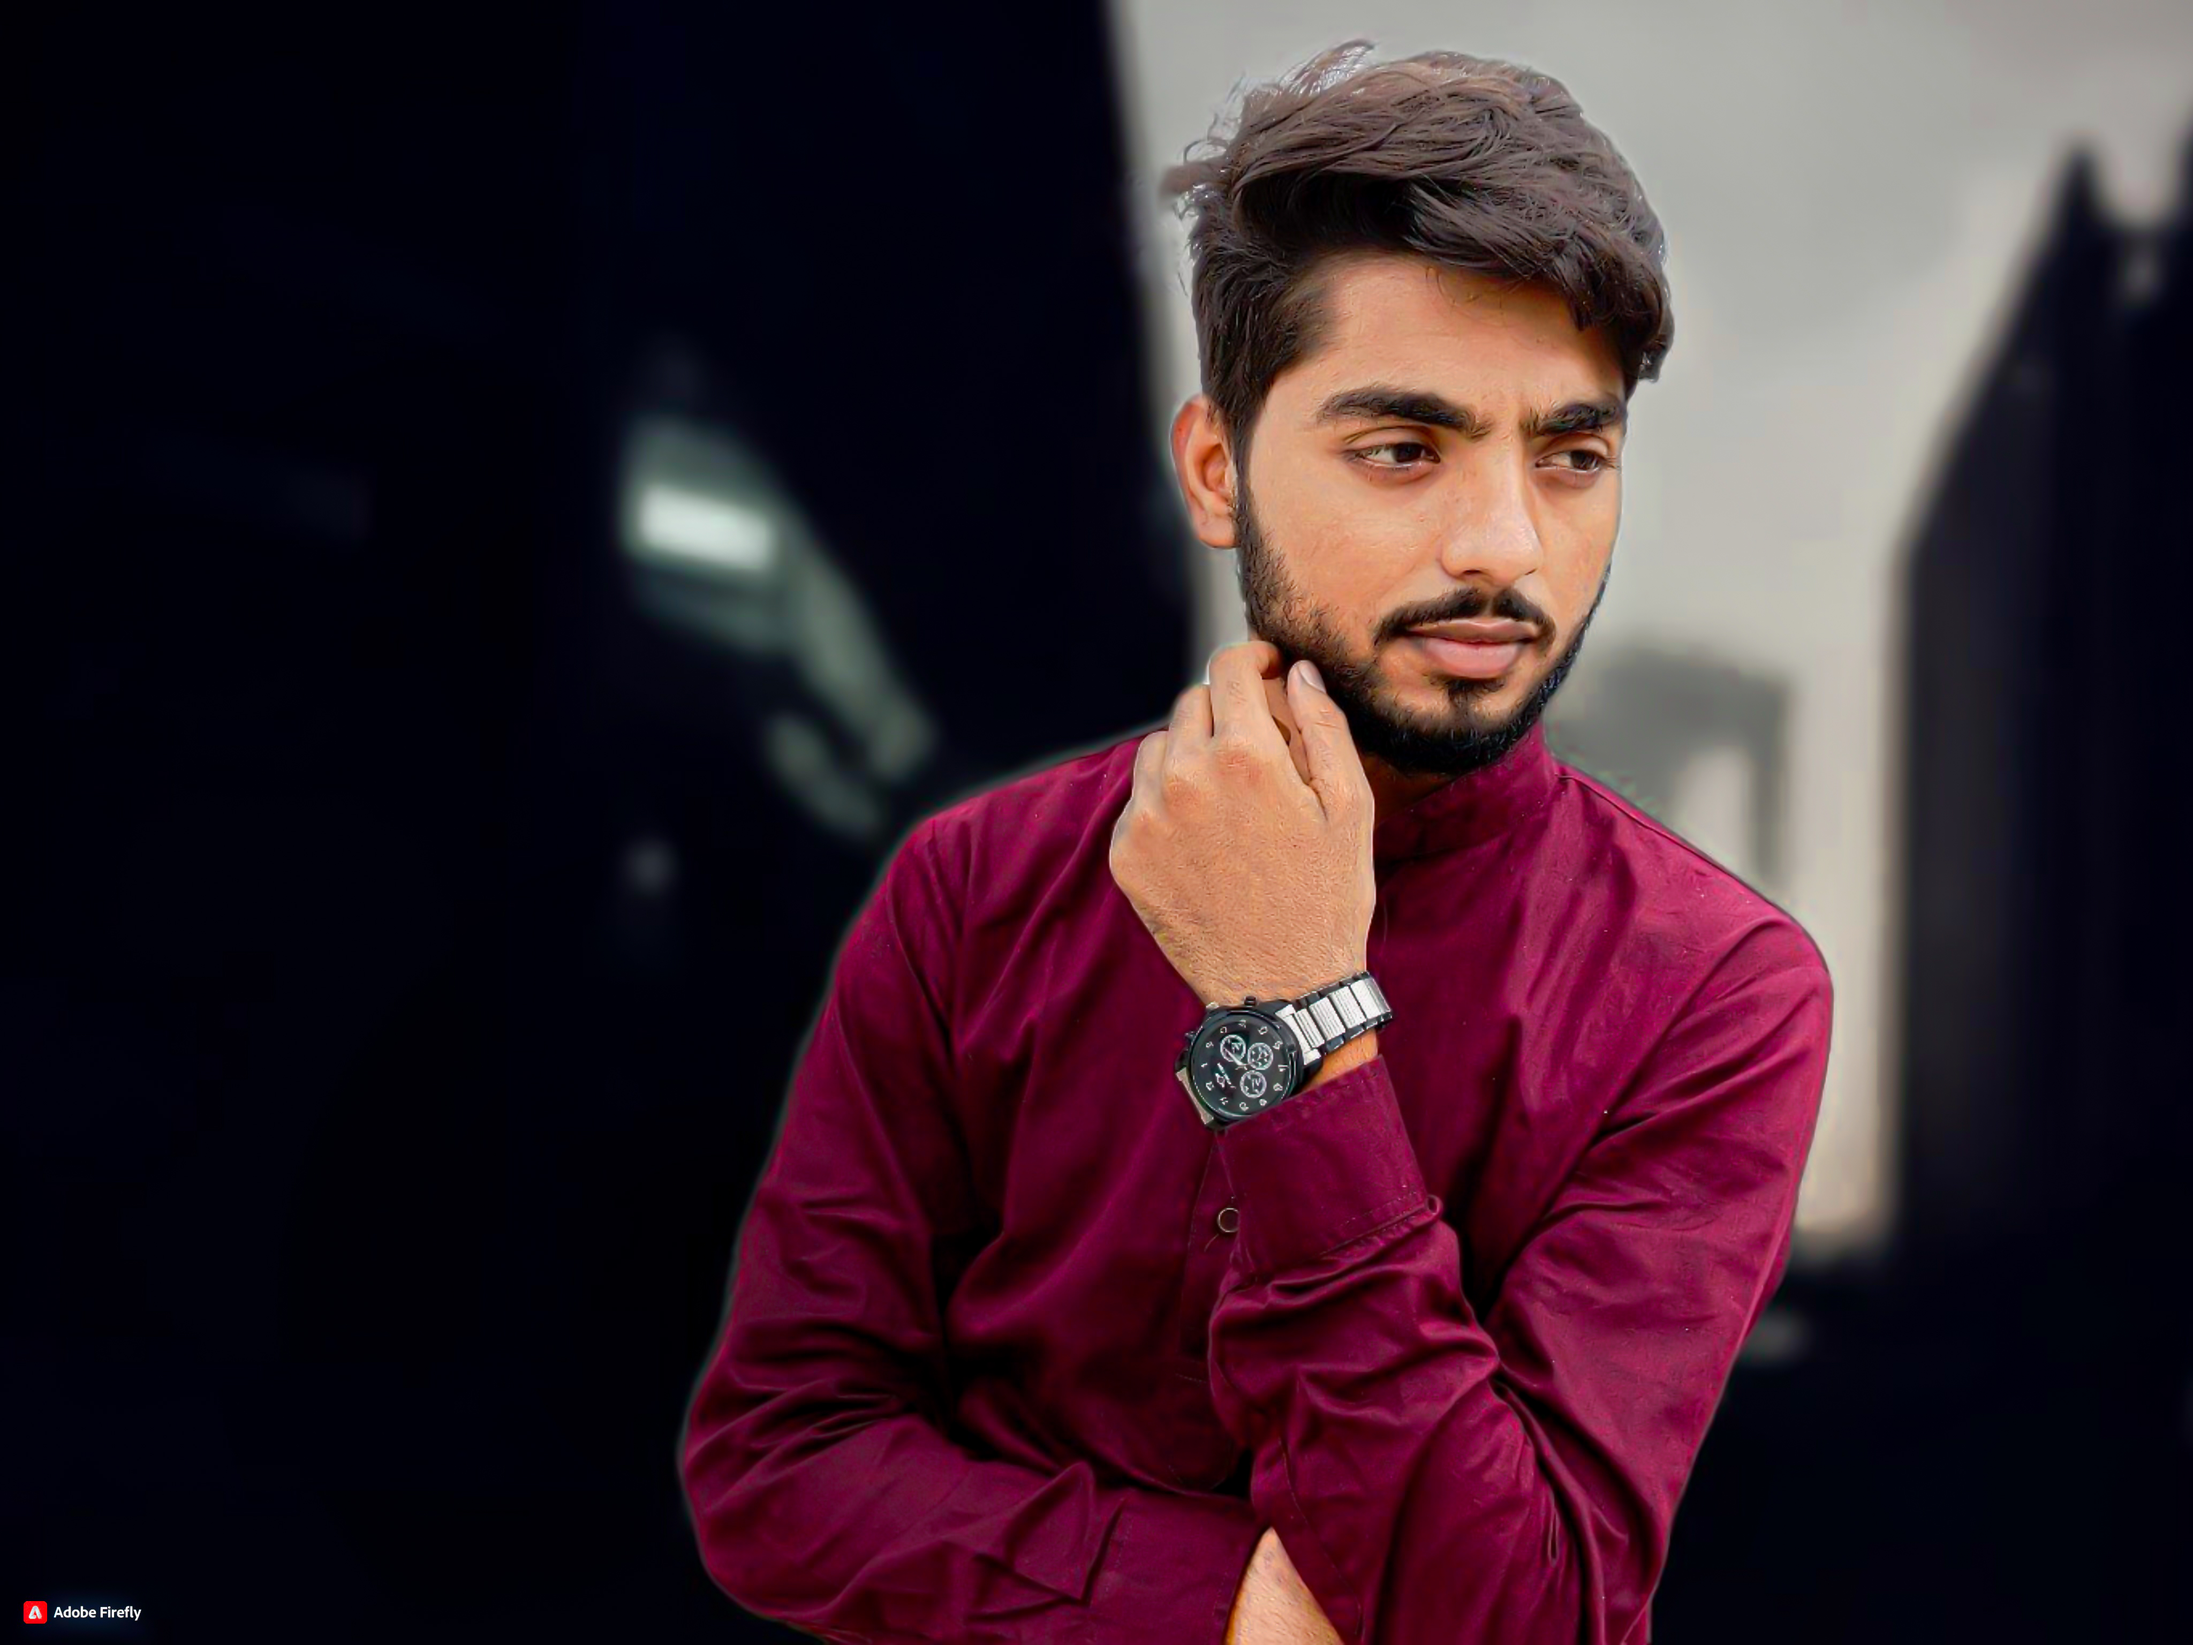
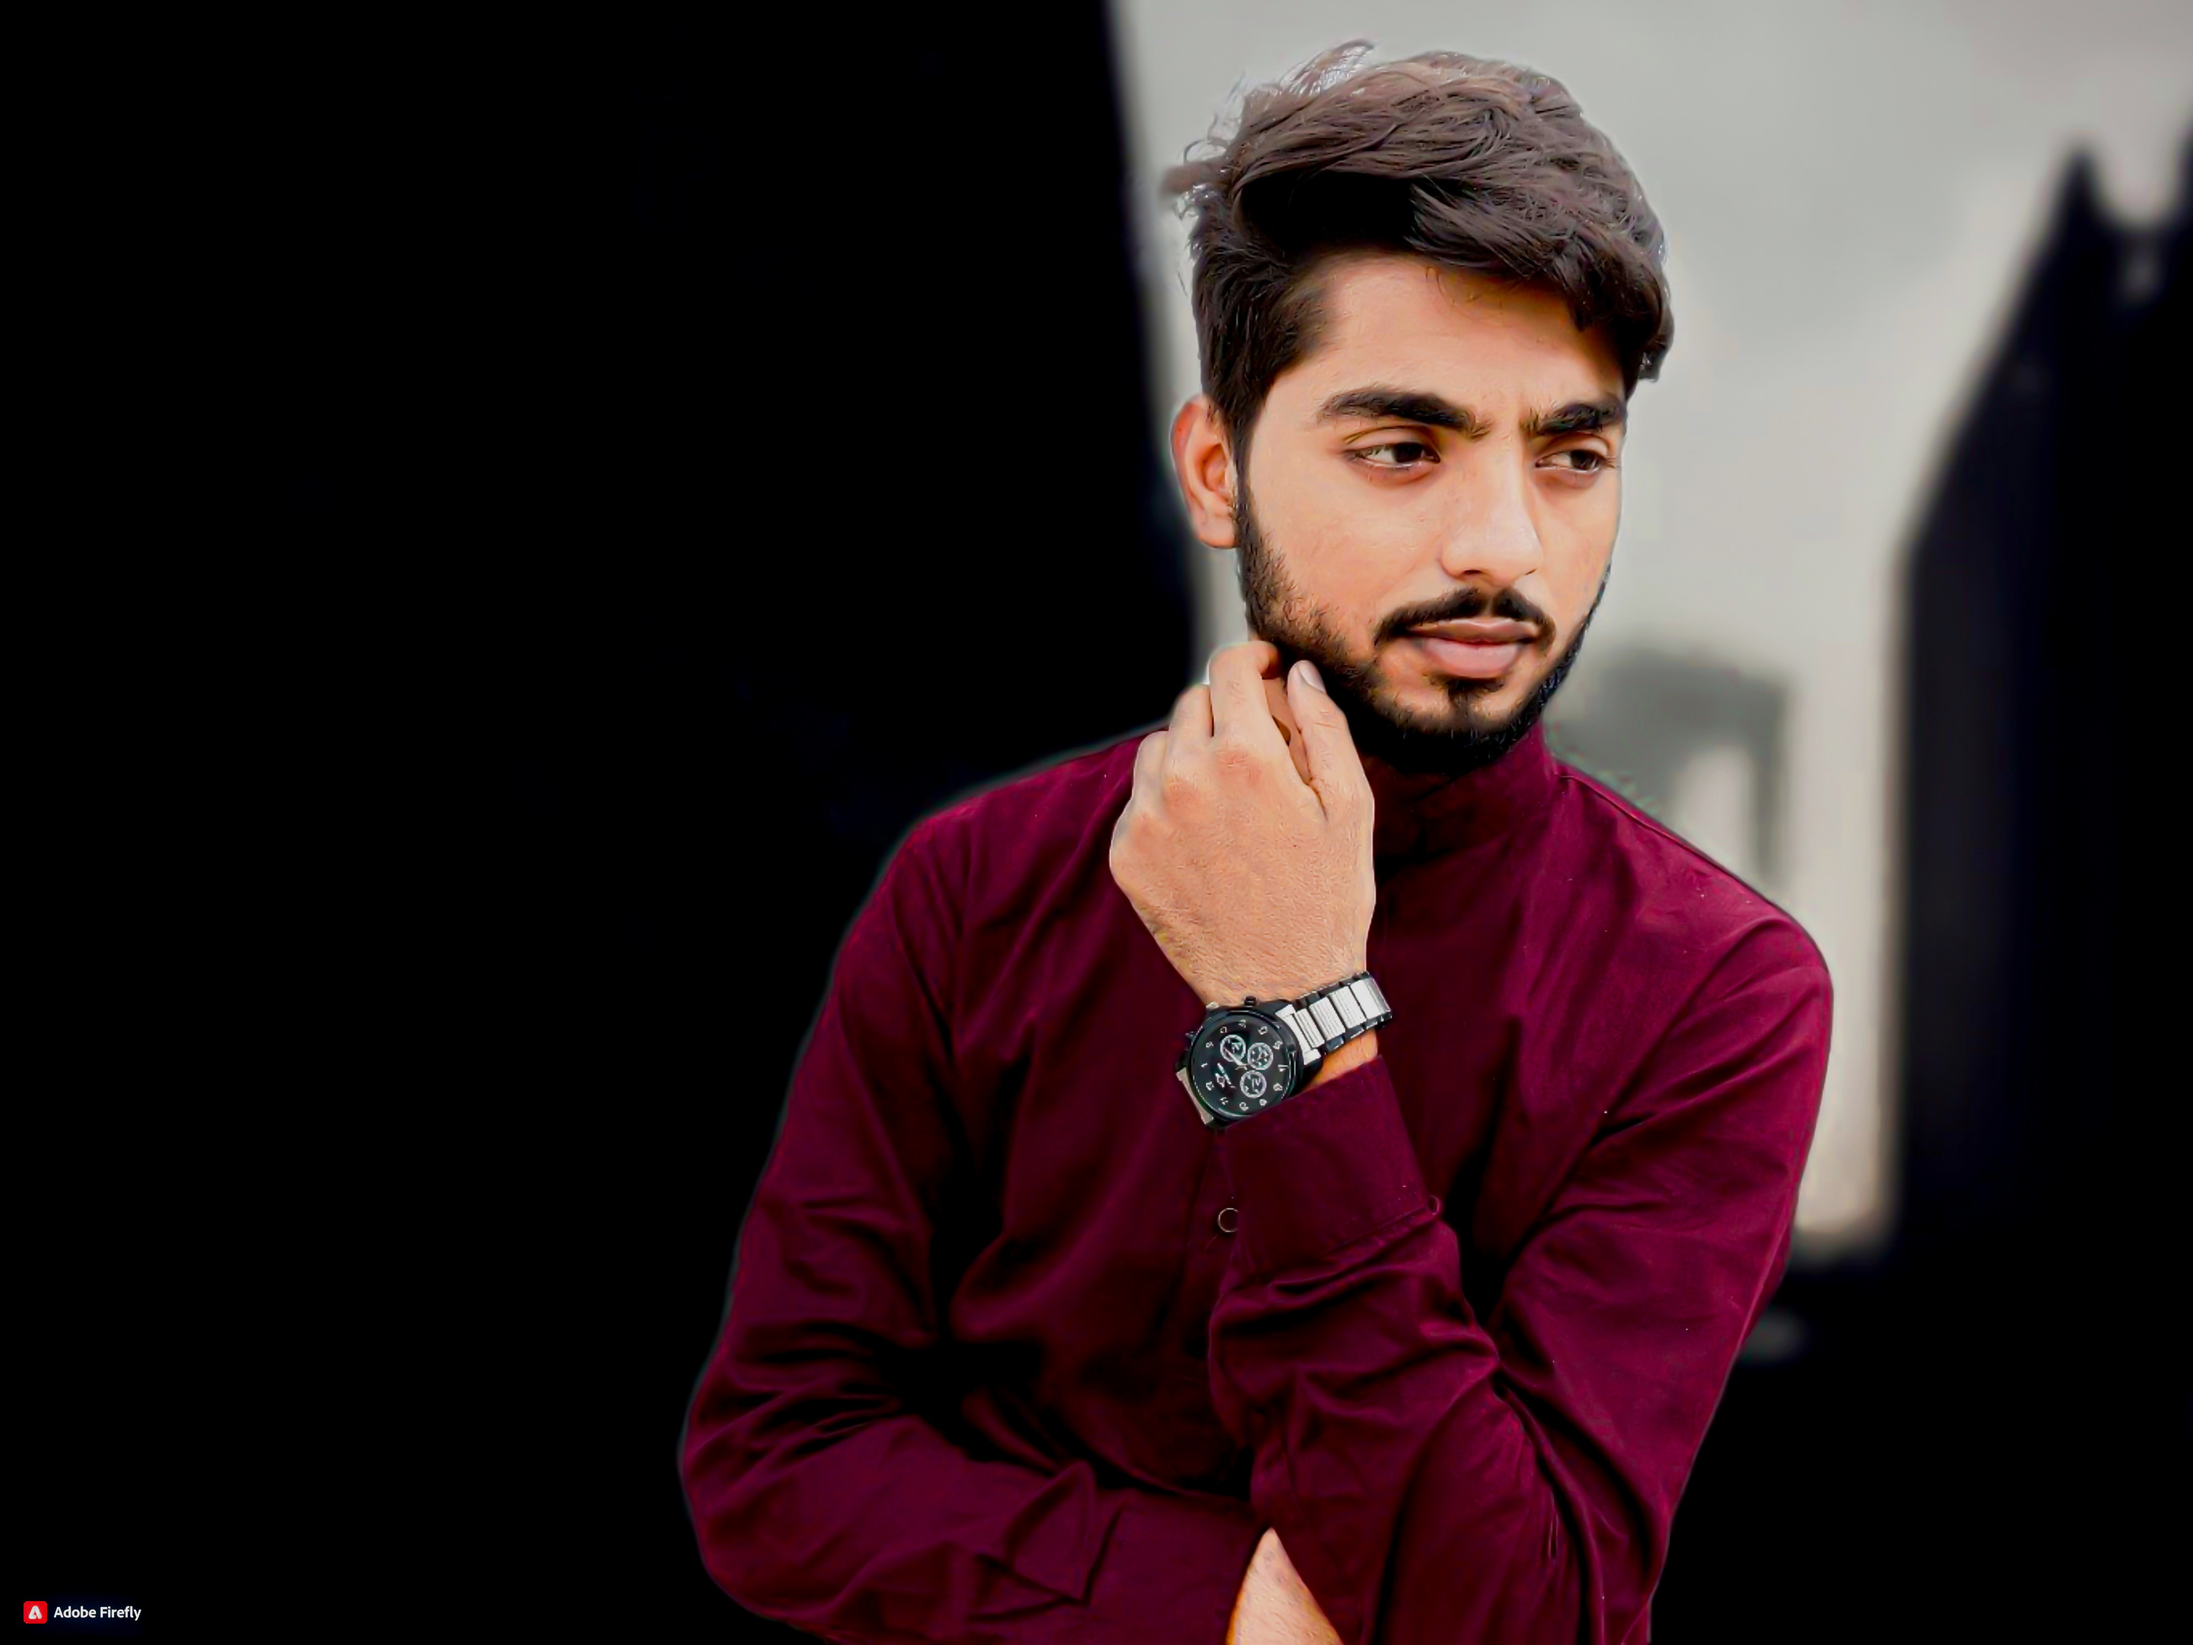
sin

diff --git a/src/output.css b/src/output.css
@@ -2071,6 +2071,10 @@ video {
   background-color: rgb(202 138 4 / var(--tw-bg-opacity));
 }
 
+.bg-opacity-50 {
+  --tw-bg-opacity: 0.5;
+}
+
 .bg-opacity-90 {
   --tw-bg-opacity: 0.9;
 }
@@ -2944,11 +2948,11 @@ video {
 }
 
 .bg-image {
-  background-image: url("../asset/backgroundss.jpg");
+  background-image: url("../asset/background.jpg");
 }
 
 .bg-image1 {
-  background-image: url("../asset/backgroundsss.jpg");
+  background-image: url("../asset/backgrounds.jpg");
 }
 
 body {
@@ -3288,7 +3292,7 @@ body {
   }
 
   .md\:bg-image {
-    background-image: url("../asset/backgroundss.jpg");
+    background-image: url("../asset/background.jpg");
   }
 }
 

diff --git a/index.html b/index.html
@@ -353,7 +353,7 @@ font-size:45px;}
 		</div>	
 
     <header class="relative z-10">
-      <nav class="flex  justify-between text-black w-full fixed bg-black md:bg-opacity-50 bg-opacity-90">
+      <nav class="flex  justify-between text-black w-full fixed bg-black md:bg-opacity-50 bg-opacity-50">
         <div class="px-5 md:px-[90px] md:py-6 py-[14px] flex w-full items-center  ">
           <a class="text-3xl font-bold font-heading " >
             <img

diff --git a/src/input.css b/src/input.css
@@ -3,10 +3,10 @@
 @tailwind utilities;
 @layer utilities {
   .bg-image {
-    background-image: url("../asset/backgroundss.jpg");
+    background-image: url("../asset/background.jpg");
   }
   .bg-image1 {
-    background-image: url("../asset/backgroundsss.jpg");
+    background-image: url("../asset/backgrounds.jpg");
   }
 
   body {
